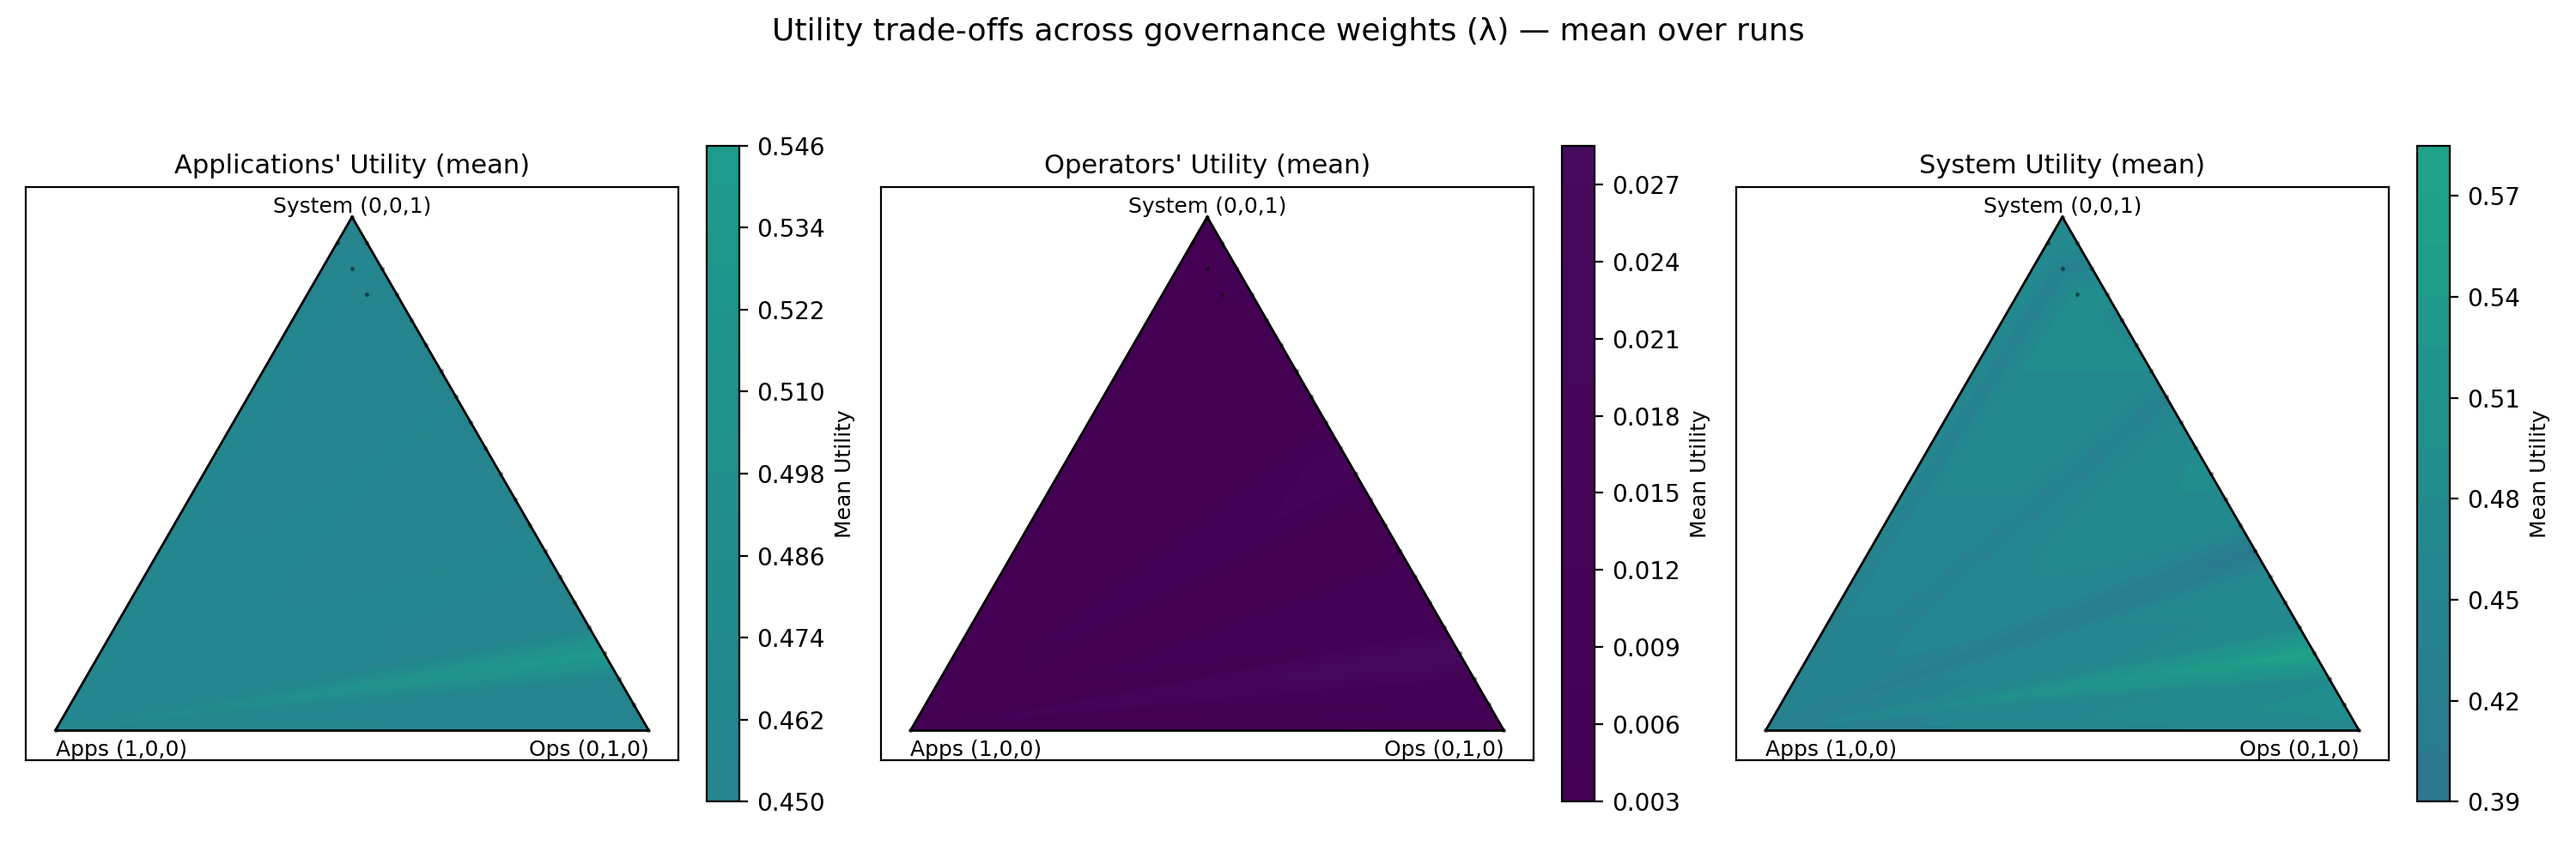
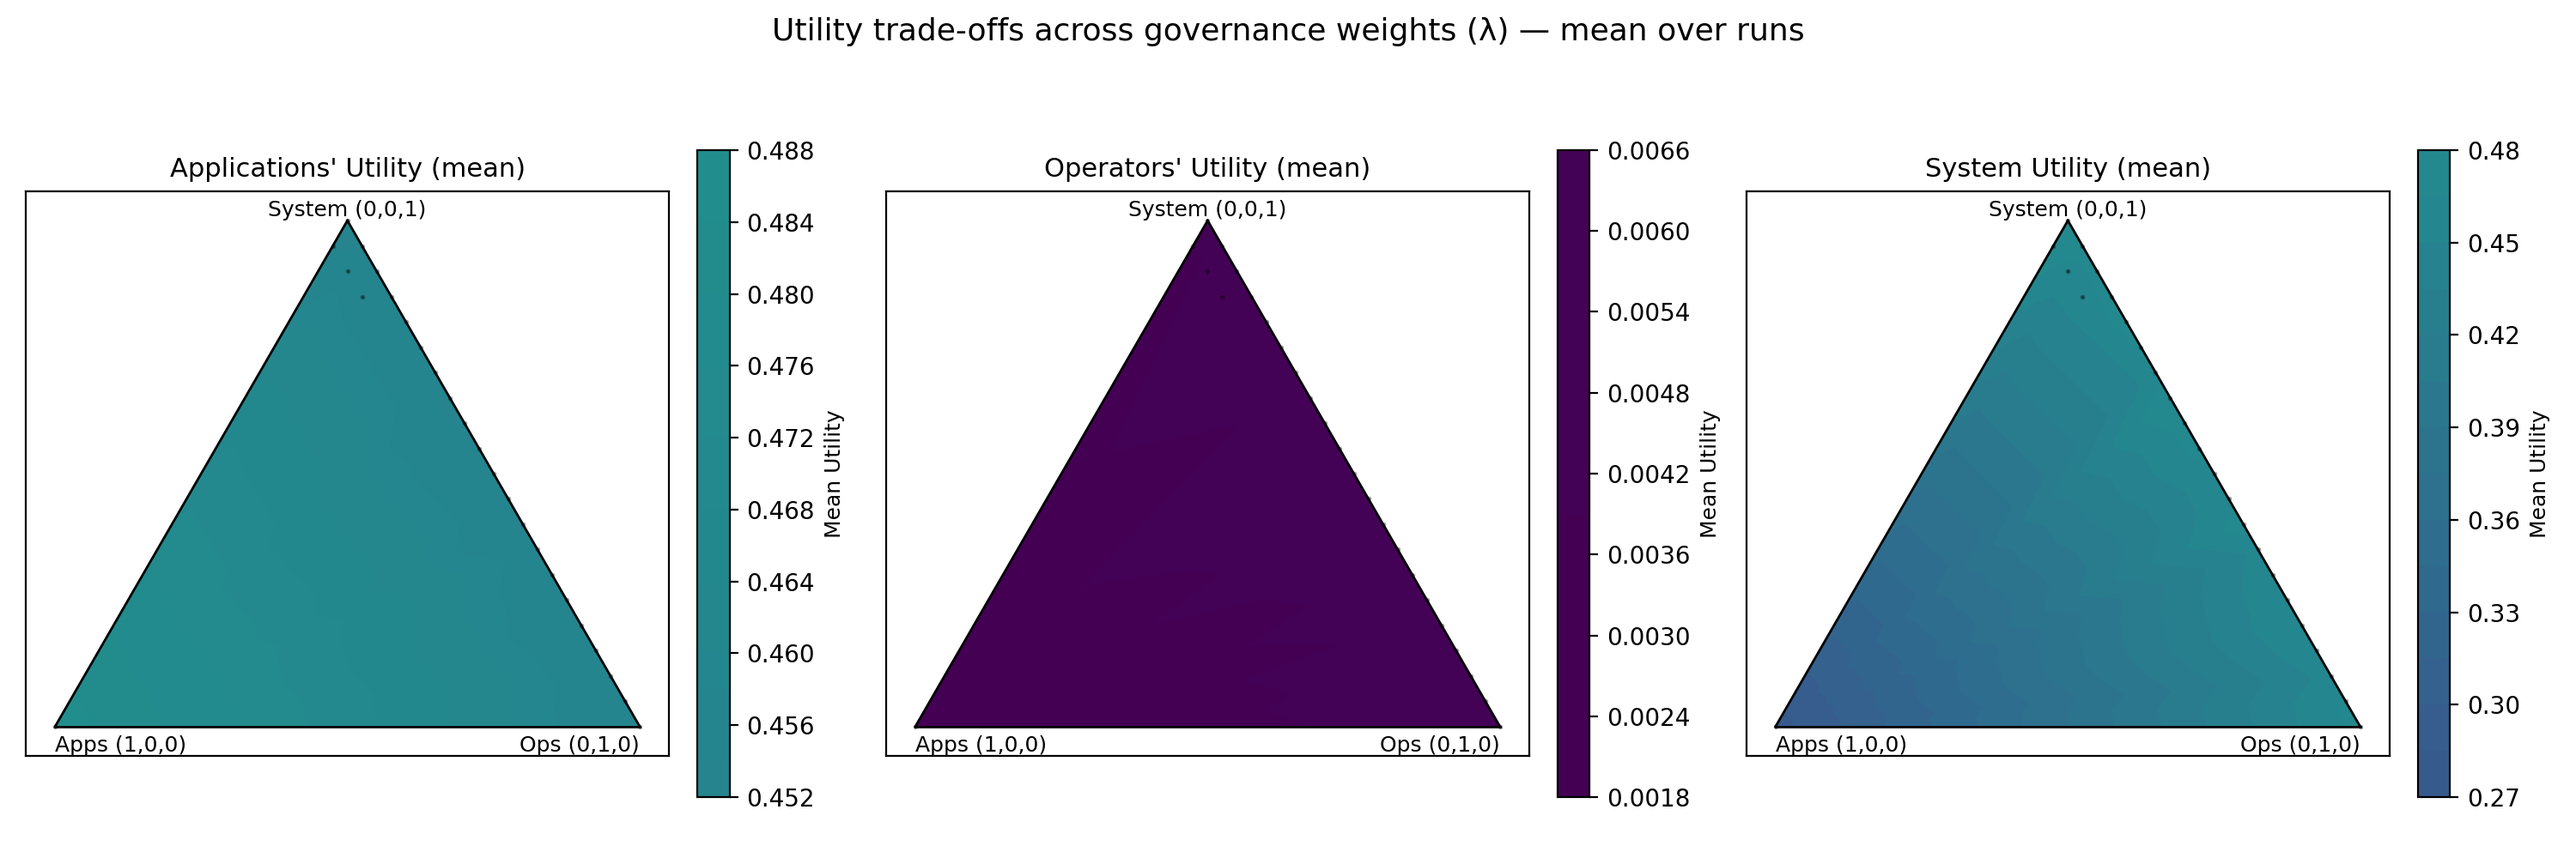
preparing big instance for checking currentyl it runs but the simplex is not interesting

diff --git a/main_create_simplex_big_instance.py b/main_create_simplex_big_instance.py
@@ -20,7 +20,7 @@ from core.optimizer import solve_model
 # -------------------------------
 # CONFIG
 # -------------------------------
-NUMBER_OF_EXPERIMENTS = 1              
+NUMBER_OF_EXPERIMENTS = 10              
 RUNS_PER_CALL = 25                    
 WORKERS_PER_CALL = 4     
 
@@ -285,7 +285,7 @@ def main():
     if path.exists():
         path.unlink()
 
-    generator_to_use = instance_generator.generate_realworldish_instance
+    generator_to_use = instance_generator.generate_simplex_instance_big_1
 
     # run the simplex generator several times
     for _ in range(NUMBER_OF_EXPERIMENTS):
